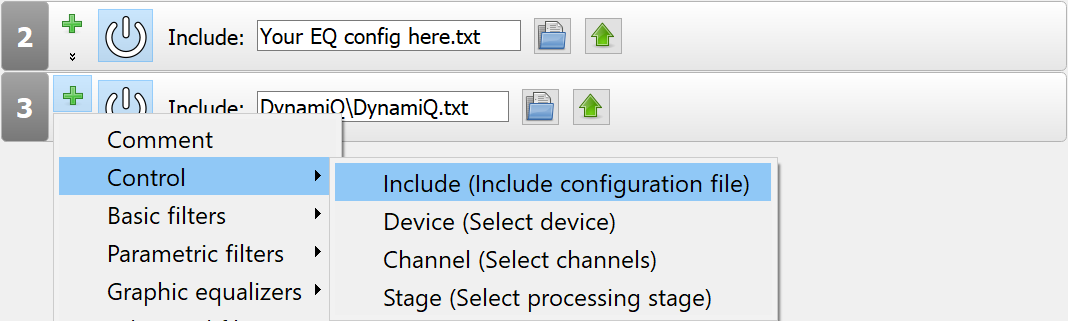
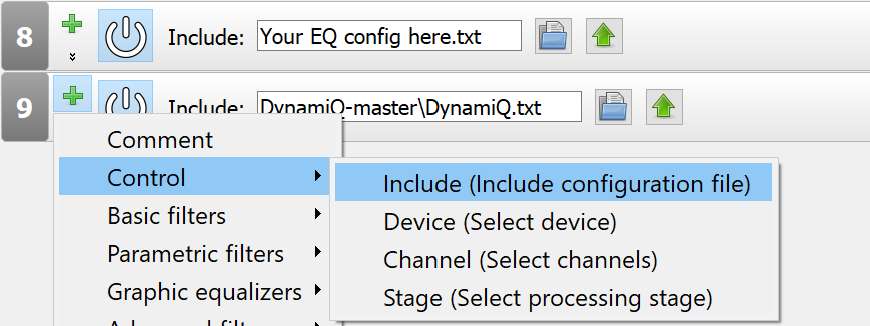
Major algorithm refinement
(1) Instead of repeating indentical BassComp.txt, we now have BassComp 1 thru 5, with the crossover frequency increasing with each. This means that DynamiQ will start shaving off the lowest bass first and then work its way up the frequency spectrum until enough bass has been scraped to provide the desired volume level without clipping. You can experiment with a different increasing scale of frequencies for the particular speaker correction EQ that you put before DynamiQ.
(2) Each BassComp*.txt now only uses a single instance of ReaComp.dll instead of 2 stages.
(3) All Pre-comp or lookahead has been eliminated to reduce latency and noise when changing Gain.
(4) ReaComp parameters have been tweaked to benefit from these changes.
(5) I added a convenient "Extra Vocal Clarity" option within DynamiQ.txt for users who prefer a mid-centric tonal bias on their mobile devices.

Changed region(s): [[0.0, 0.0, 1.0, 1.0], [0.6828, 0.0623, 0.7138, 0.1558], [0.1241, 0.9657, 0.1552, 1.0]]

diff --git a/README.md b/README.md
@@ -1,8 +1,12 @@
+
 # DynamiQ: Intelligent Frequency-Aware Volume Boost
 
-DynamiQ is an open-source and modular package of scripts that allow you to boost the volume of the audio from your Windows device. It enables you to use aggressive equalizer settings without sacrificing maximum attainable volume.
+**May 26, 2020: now updated** with improved algorithm, reduced latency, and optional user-requested vocal clarity option! [Download](https://github.com/Brad331/DynamiQ/archive/master.zip) the new version and overwrite your DynamiQ folder. [See full changelog](https://github.com/Brad331/DynamiQ/commits/master)
 
-Binaural demo on MateBook X Pro: https://www.youtube.com/watch?v=o5kS3qjtLgI
+
+**DynamiQ** is an open-source and modular package of scripts that allow you to boost the volume of the audio from your Windows device. It enables you to use aggressive equalizer settings without sacrificing maximum attainable volume.
+
+Binaural demo on MateBook X Pro laptop: https://www.youtube.com/watch?v=o5kS3qjtLgI
 
 ### Use Cases:
 DynamiQ is the best way to get much better sound from your laptop's speakers or other small speakers. Set an equalizer to correct the frequency response and put DynamiQ after it. You will get your desired frequency response yet be able to reach very high volumes when you turn it up.
@@ -10,21 +14,23 @@ DynamiQ is the best way to get much better sound from your laptop's speakers or 
 ### How It Works:
 
 When more power output is demanded than possible, DynamiQ levels the bass on demand to free up just enough headroom to avoid clipping. The amount of bass attenuation varies with the loudness of the audio in real-time. This way, you're gauranteed the volume level you set but also the most ideal frequency response possible at that volume level.
+If you've done any EQ'ing on laptop speakers, you've probably run into a shortage of volume after boosting the bass. You might have even set up multiple EQ profiles for bass and for volume. Well, now DynamiQ does that for you automatically.
 
 ### How to Install:
 
-1. Make sure [Equalizer APO](https://sourceforge.net/projects/equalizerapo/ "Equalizer APO") is installed and working.
-2. Make a folder called **DynamiQ** in **%ProgramFiles%\EqualizerAPO\config**. (Make sure it's NOT called 'DynamiQ-master'.)
-3. [Download DynamiQ](https://github.com/Brad331/DynamiQ/archive/master.zip "DynamiQ") and extract its contents into that folder.
-4. Include **DynamiQ\DynamiQ.txt** in your Equalizer APO config file, after any EQ you have for your speakers.
+1. Make sure [Equalizer APO](https://sourceforge.net/projects/equalizerapo/ "Equalizer APO") is installed and working.
+2. [Download DynamiQ](https://github.com/Brad331/DynamiQ/archive/master.zip "DynamiQ").
+3. Extract the zip you just downloaded. You should get a folder called "DynamiQ-master" with some files in it.
+4. Move that folder into **%ProgramFiles%\EqualizerAPO\config**.
+5. Include **DynamiQ-master\DynamiQ.txt** in your Equalizer APO config file, after any EQ you have for your speakers.
 ![alt text](https://github.com/Brad331/DynamiQ/raw/master/Include%20DynamiQ.png)
-5. [Download APOpreamp](https://github.com/Brad331/APOpreamp.ahk/releases "APOpreamp") and put it in **%appdata%\Microsoft\Windows\Start Menu\Programs\Startup** so that it automatically starts at login.
-6. Run APOpreamp.exe.
+6. [Download APOpreamp](https://github.com/Brad331/APOpreamp.ahk/releases "APOpreamp") and put it in **%appdata%\Microsoft\Windows\Start Menu\Programs\Startup** so that it automatically starts at login.
+7. Run APOpreamp.exe.
 
 
 ### How to Use:
 
-Once your Windows volume is maxed out, keep pressing the volume up button on your keyboard to boost the gain.
+Once your Windows volume is maxed out, keep pressing the volume up button on your keyboard to boost the gain. You should see a white Gain box pop up near the screen's top left corner and hear an increase in volume.
 
 ### FAQ:
 Q: Windows volume 100 is now much quieter and I have to use the Gain. Is that normal?
@@ -33,12 +39,11 @@ A: Yes, DynamiQ is designed to take advantage of the full amplifier headroom pro
 
 Q: Should I turn off DynamiQ when using headphones?
 
-A: Yes, DynamiQ is not for headphones, so you should turn it off.
+A: Yes, DynamiQ is not for headphones, so you should turn it off. If your headphone is a different sound device (e.g. USB headphones), you can simply not enable E-APO for that device, or use the "Select Device" filter within E-APO to apply DynamiQ to just the speakers.
 
 ### Customization:
-You can use Equalizer APO's Editor.exe to change the bass crossover frequency in BassComp.txt. I have it set at 120Hz, which is the point  in my equalizer setting below which bass starts to go up dramatically.
+You can use Equalizer APO's Editor.exe to change the bass crossover frequency in each BassComp*.txt. You can shift them up to make DynamiQ favor more volume or down to favor more bass. Rule of thumb: BassComp1.txt's crossover frequency should be about equal to your speaker's bass rolloff frequency.
 
-Feel free to experiment and modify any part of DynamiQ. Maybe you'll discover something new and even better! Just be careful not to blow your speakers. The first compressor in BassComp.txt is for speaker protection.
+Feel free to experiment and modify any part of DynamiQ. Maybe you'll discover something new and even better! Just be careful not to blow your speakers. If you hear distortion, [submit an issue](https://github.com/Brad331/DynamiQ/issues/new) stating your device model and describing the noise so I can help you.
 
-
-DynamiQ makes use of and includes a copy of [ReaComp](https://www.reaper.fm/reaplugs/ "ReaComp"), a VST plugin by Cockos.
+DynamiQ makes use of and includes a copy of [ReaComp](https://www.reaper.fm/reaplugs/ "ReaComp"), a free VST plugin by Cockos.
